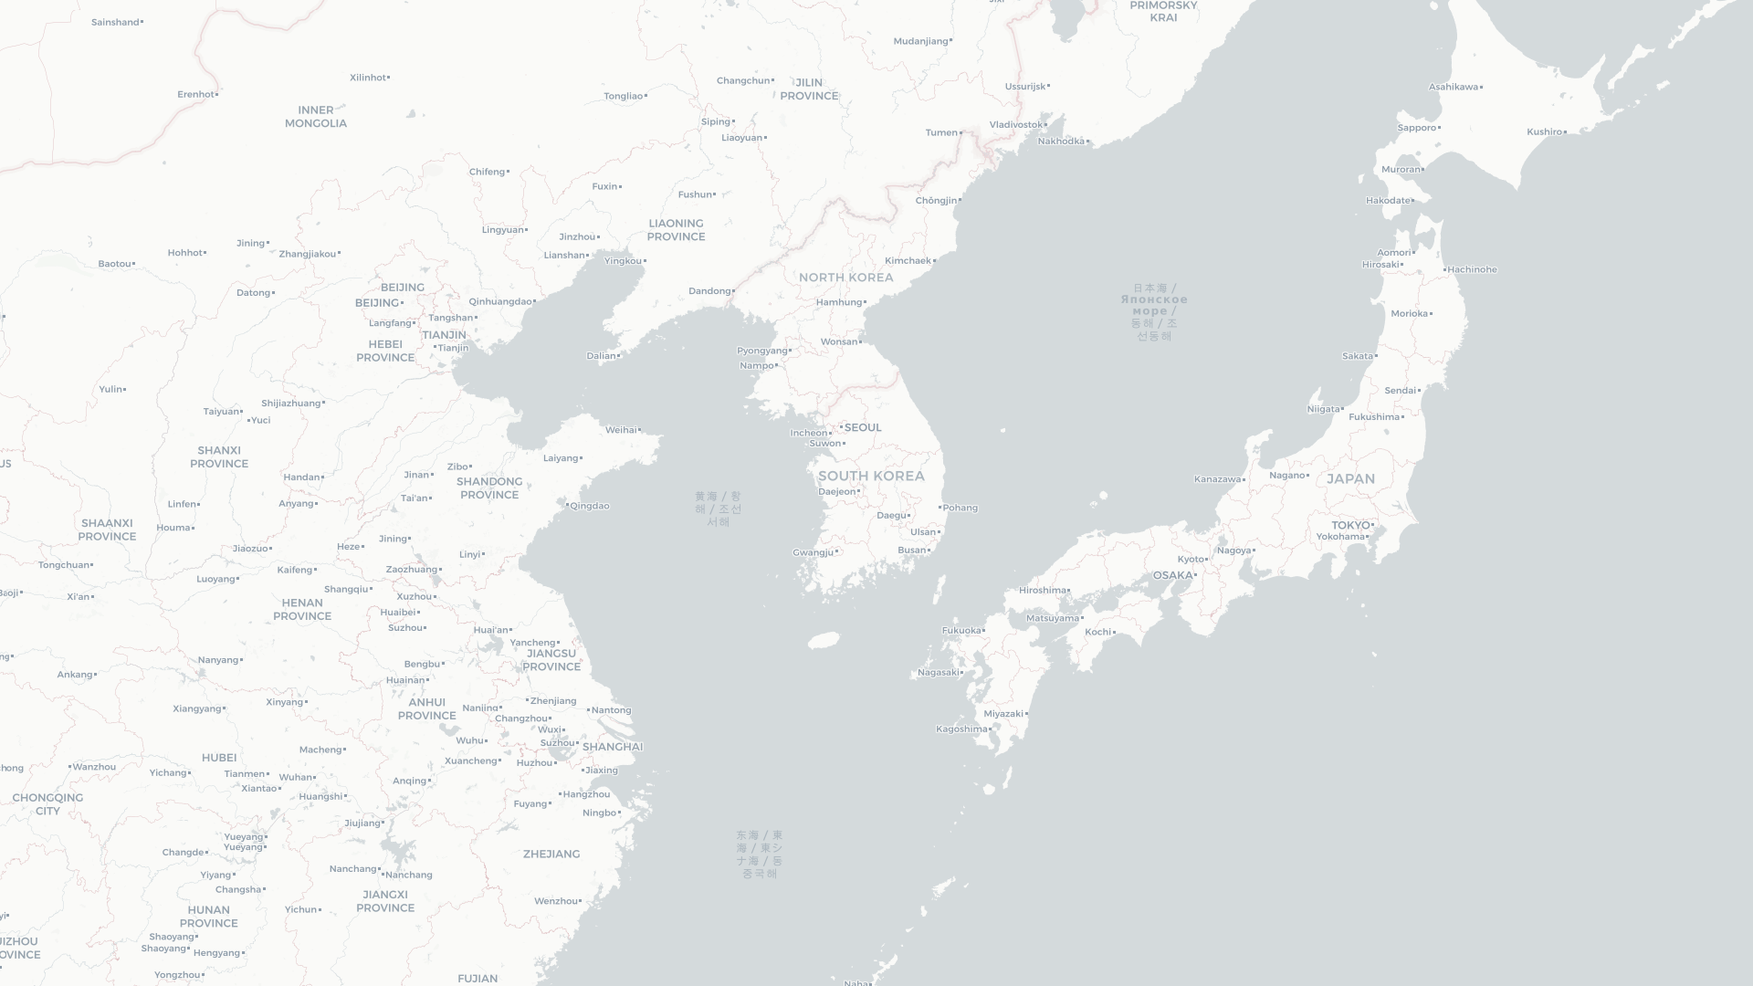
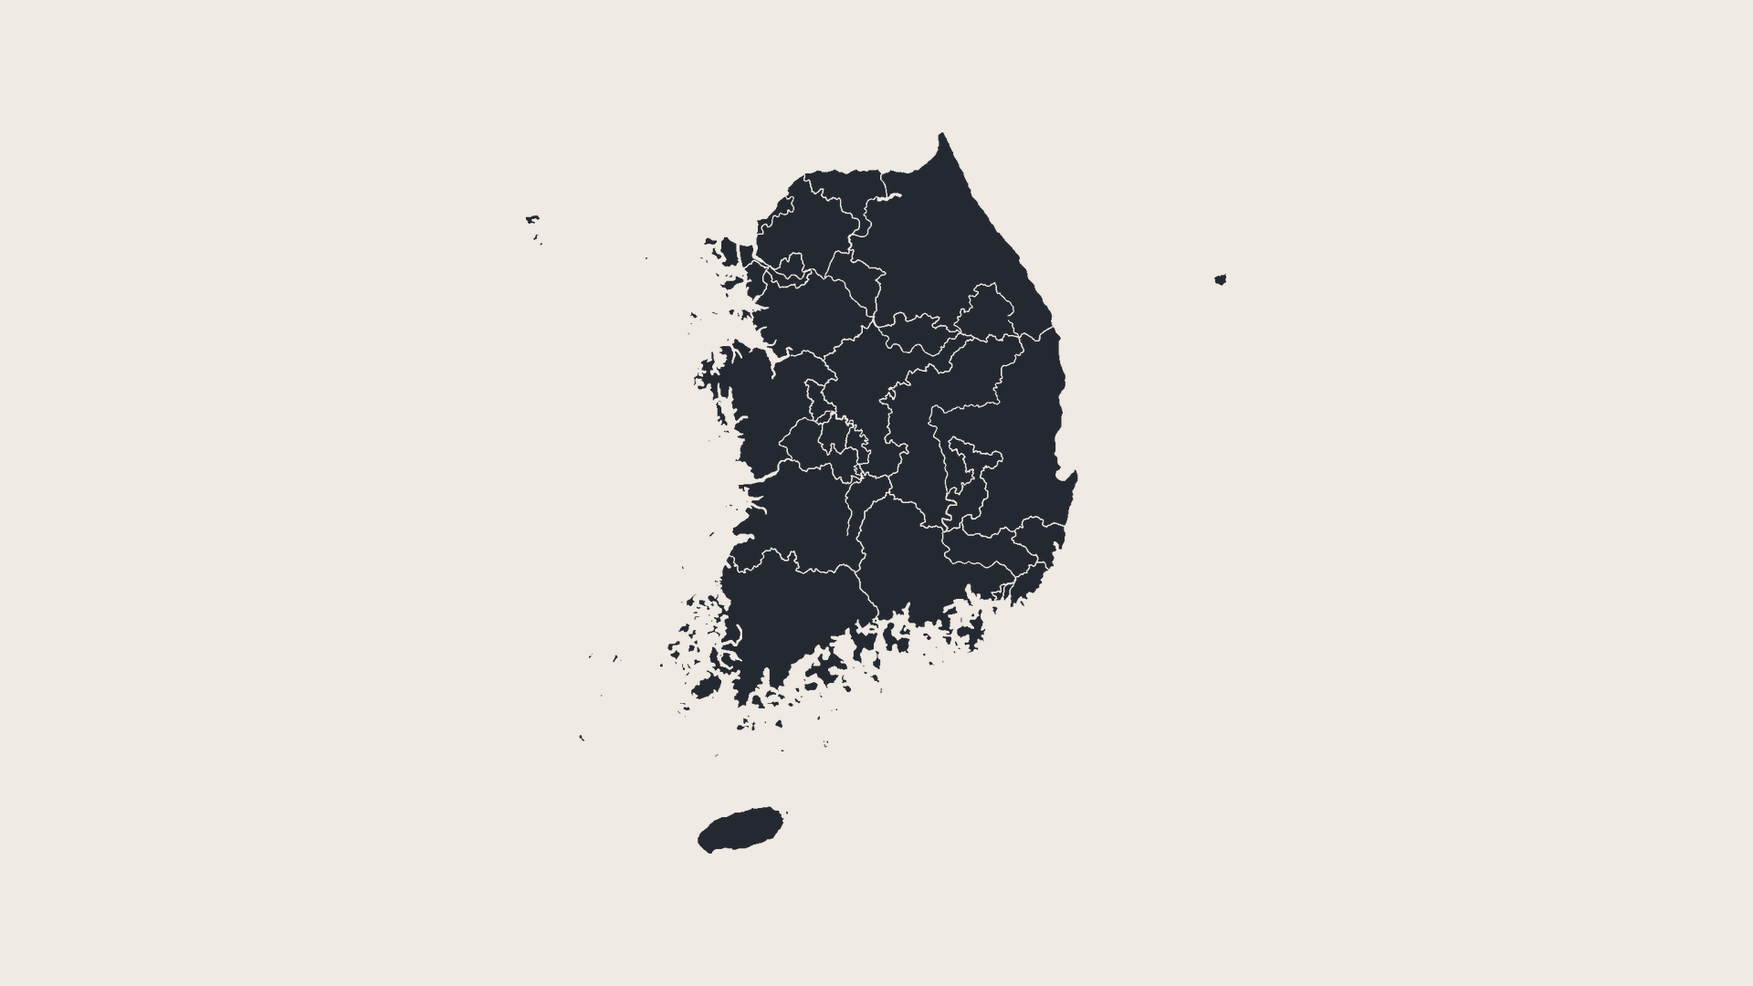
겹치는 글자·반복되는 화면 구조 잡기
전수 검수에서 나온 것들.

글자 겹침
- ShapeCompareCard 세로 치수 라벨이 도형 위로 올라탔다 (#33 옐로 면에 흰 글씨).
  DimLine 이 세로 라벨을 무조건 오른쪽에 놨기 때문이다. 치수선은 늘 도형
  바깥에 긋고 도형은 대개 가운데 있으니, 중앙에서 멀어지는 쪽에 놓게 바꿨다.
- StrikeSwapCard 옛 값과 새 값 사이가 14px 뿐이라 두 줄이 물렸다 (#85).
  간격을 한 줄 높이로 벌리고, 아래 한 줄은 블록 바닥을 따라가게 했다.
- 취소선이 글자 끝을 120px 지나 뻗었다. estWidth 추정이 한글에서 25% 크다.
  선을 글자 안에 넣어 실제 폭을 따르게 했다 — 추정을 안 쓴다.
- FrontageCard 안 이름과 면적 두 줄이 4px 로 붙어 있었다.

같은 그림 반복
- #22·#23 이 제목까지 같은 도형 카드였다. 평면(땅) → 입면(광고판) 으로
  한 칸 진행시켜 다른 그림이 되게 했다.
- YardView ×3, ShareSplit ×3, TrackRecord ×3 이었고 두 쌍은 바로 붙어 있었다.
  계열마다 하나씩만 남기고 나머지는 실사나 다른 카드로 돌렸다.
- 붙어 있는 같은 카드 3쌍(#2-3, #33-34, #80-81) 도 갈랐다. 이제 0쌍.
- #3 과 #4 가 같은 두 수(396/541)를 두 번 비교했고, #8 과 #73 이 같은 137%를
  두 번 띄웠다. 각각 한 번만 남겼다.

파일이 달라도 화면이 같은 문제
- 야경 항공샷이 셋 연달아 나오고 있었다. 파일 중복과 별개로 **계열**을 태그해
  앞 두 컷과 겹치지 않게 고른다.

한국 지도
- 국기를 뺀 지도가 실은 동아시아 지도였다. 중국·일본이 화면을 채우고 한국은
  가운데 조각이었다. 남한만 남긴 실루엣으로 다시 만들었다.

Claude-Session: https://claude.ai/code/session_0163BvG2wWGZZ4ytYegGjwJG

diff --git a/youtube_pipeline/motion/src/StrikeSwapCard.jsx b/youtube_pipeline/motion/src/StrikeSwapCard.jsx
@@ -2,7 +2,7 @@ import React from 'react';
 import {AbsoluteFill, Img, interpolate, staticFile, useCurrentFrame} from 'remotion';
 import {useA2ZFonts} from './Fonts';
 import {PaperBg, PaperTitle, PaperSource, themeOf, YELLOW, CONTENT_BOTTOM, fadeIn} from './paper';
-import {fit, estWidth} from './layout';
+import {fit} from './layout';
 
 // ── 값이 갈아치워지는 카드 ────────────────────────────────────────────────
 // B1M 썸네일에서 가장 강한 한 장이 "~~30 HOURS~~ / 6 HOURS" 였다.
@@ -42,10 +42,10 @@ export const StrikeSwapCard = ({
 
   const fromSize = fit(from, 96, 1300);
   const toSize = fit(to, 168, 1500);
-  const fromW = estWidth(from, fromSize);
   const top = title ? (sub ? 330 : 280) : 250;
-  const X = center ? 960 : 150;
-  const anchor = (w) => (center ? X - w / 2 : X);
+  // 아래 한 줄(note)은 블록 바닥을 따라간다 — 자막 안전영역 안에서만
+  const blockBot = top + fromSize * 1.62 + toSize * 1.05 + (toLabel ? 16 + 48 : 0);
+  const noteTop = Math.min(CONTENT_BOTTOM - 44, blockBot + 40);
 
   return (
     <AbsoluteFill style={{fontFamily: 'A2Z Regular, sans-serif'}}>
@@ -58,34 +58,40 @@ export const StrikeSwapCard = ({
       ) : null}
       <PaperTitle title={title} sub={sub} theme={theme} align={align} />
 
-      {/* ① 옛 값 */}
-      <div style={{position: 'absolute', left: anchor(fromW), top,
+      {/* ① 옛 값 + ② 취소선.
+          선을 SVG 로 따로 그었더니 estWidth 추정이 한글에서 25% 넘게 커서
+          글자 끝을 120px 지나 뻗었다. 선을 **글자 안에** inline-block 자식으로
+          넣으면 실제 글자 폭을 그대로 따라간다 — 추정이 필요 없다. */}
+      <div style={{position: 'absolute', left: 0, right: 0, top,
+                   textAlign: center ? 'center' : 'left',
+                   paddingLeft: center ? 0 : 150,
                    opacity: fadeIn(frame, 2)}}>
-        <div style={{fontFamily: 'Pretendard Bold, A2Z Medium, sans-serif',
+        <div style={{position: 'relative', display: 'inline-block',
+                     fontFamily: 'Pretendard Bold, A2Z Medium, sans-serif',
                      fontSize: fromSize, color: T.ink, opacity: 0.66, lineHeight: 1.1,
                      whiteSpace: 'nowrap', letterSpacing: '-0.02em'}}>
           {from}
+          <div style={{position: 'absolute', left: -10, top: '52%',
+                       width: `calc((100% + 20px) * ${s2})`, height: 7,
+                       background: T.ink, opacity: 1}} />
         </div>
       </div>
       {fromLabel ? (
-        <div style={{position: 'absolute', left: anchor(estWidth(fromLabel, 30)),
-                     top: top - 42, opacity: fadeIn(frame, 6),
+        <div style={{position: 'absolute', left: 0, right: 0, top: top - 42,
+                     textAlign: center ? 'center' : 'left',
+                     paddingLeft: center ? 0 : 150, opacity: fadeIn(frame, 6),
                      fontFamily: 'A2Z Light, sans-serif', fontSize: 30, color: T.soft,
                      whiteSpace: 'nowrap'}}>
           {fromLabel}
         </div>
       ) : null}
 
-      {/* ② 취소선 — 왼쪽에서 오른쪽으로. 지우는 동작이라 반드시 한 방향 */}
-      <svg width={1920} height={1080} style={{position: 'absolute', top: 0, left: 0}}>
-        <line x1={anchor(fromW) - 14} y1={top + fromSize * 0.56}
-              x2={anchor(fromW) - 14 + (fromW + 28) * s2} y2={top + fromSize * 0.56}
-              stroke={T.ink} strokeWidth={7} strokeLinecap="butt" />
-      </svg>
-
-      {/* ③ 새 값이 아래에서 올라온다 */}
+      {/* ③ 새 값이 아래에서 올라온다.
+          간격이 fromSize×1.24 였는데 옛 값 줄높이가 1.1 이라 **14px 밖에 안 남았다.**
+          한글은 받침까지 꽉 차고 새 값은 옐로 배경까지 있어서, 두 줄이 서로
+          물려 보였다 (#85 이지스↔교보AIM). 한 줄 높이만큼 확실히 띄운다. */}
       <div style={{position: 'absolute', left: 0, right: 0,
-                   top: top + fromSize * 1.24,
+                   top: top + fromSize * 1.62,
                    textAlign: center ? 'center' : 'left',
                    paddingLeft: center ? 0 : 150,
                    opacity: r2, transform: `translateY(${(1 - r2) * 26}px)`}}>
@@ -96,9 +102,9 @@ export const StrikeSwapCard = ({
                         boxDecorationBreak: 'clone'}}>{to}</span>
         </div>
         {toLabel ? (
-          <div style={{marginTop: 18,
+          <div style={{marginTop: 16,
                        fontFamily: 'Pretendard Bold, A2Z Medium, sans-serif',
-                       fontSize: 52, color: T.ink, whiteSpace: 'nowrap',
+                       fontSize: 48, color: T.ink, whiteSpace: 'nowrap',
                        letterSpacing: '-0.01em'}}>
             {toLabel}
           </div>
@@ -107,7 +113,7 @@ export const StrikeSwapCard = ({
 
       {note ? (
         <div style={{position: 'absolute', left: 150, right: 150,
-                     top: CONTENT_BOTTOM - 66, textAlign: center ? 'center' : 'left',
+                     top: noteTop, textAlign: center ? 'center' : 'left',
                      opacity: fadeIn(frame, READ + STRIKE + 30),
                      fontFamily: 'A2Z Light, sans-serif', fontSize: 32, color: T.soft,
                      wordBreak: 'keep-all'}}>

diff --git a/youtube_pipeline/motion/src/FrontageCard.jsx b/youtube_pipeline/motion/src/FrontageCard.jsx
@@ -1,7 +1,7 @@
 import React from 'react';
 import {AbsoluteFill, interpolate, useCurrentFrame} from 'remotion';
 import {useA2ZFonts} from './Fonts';
-import {themeOf, PaperBg, PaperTitle, PaperSource, YELLOW, CONTENT_BOTTOM, fadeIn} from './paper';
+import {themeOf, PaperBg, PaperTitle, PaperSource, YELLOW, CONTENT_BOTTOM, fadeIn, SP} from './paper';
 import {DimLine} from './annotate';
 import {fit} from './layout';
 
@@ -35,9 +35,9 @@ export const FrontageCard = ({
   // 블록을 **위에서부터 흘려** 쌓는다 (layout.jsx flow 와 같은 원칙).
   // 좌표를 하나씩 박으면 한 곳을 고칠 때 옆이 깨진다 — 실제로 첫 렌더에서
   // 안 이름이 부제를 덮고 치수 숫자가 정면 박스를 관통했다.
-  const LABEL_H = 88;      // 안 이름 + 면적 두 줄
+  const LABEL_H = 112;     // 안 이름 + 면적 두 줄. 88 이면 두 줄이 서로 붙는다
   const GAP = 34;          // 평면 ↔ 정면. 옐로 변이 내려오는 통로
-  const DIM_GAP = 74;      // 정면 ↔ 치수선. DimLine 라벨이 선 **위**에 앉으므로
+  const DIM_GAP = 84;      // 정면 ↔ 치수선. DimLine 라벨이 선 **위**에 앉으므로
                            // 이만큼 안 띄우면 숫자가 정면 박스를 뚫는다
   const NOTE_GAP = 40;
 
@@ -155,9 +155,10 @@ export const FrontageCard = ({
                          fontSize: fit(o.label, 46, 560), color: o.hot ? T.ink : T.soft}}>
               {o.label}
             </div>
-            <div style={{marginTop: 4, fontFamily: 'A2Z Light, sans-serif', fontSize: 27,
+            {/* 이름 바로 밑에 4px 로 붙여 놨더니 두 줄이 한 덩어리로 뭉쳤다 */}
+            <div style={{marginTop: SP.TIGHT, fontFamily: 'A2Z Light, sans-serif', fontSize: 30,
                          color: T.soft}}>
-              면적 {o.w * o.d}칸 · 동일
+              면적 {o.w * o.d}칸 (동일)
             </div>
           </div>
         );
@@ -172,8 +173,8 @@ export const FrontageCard = ({
           <div key={oi} style={{position: 'absolute', left: cx - 300, width: 600,
                                 top: noteTop, textAlign: 'center', opacity: op,
                                 fontFamily: 'Pretendard Bold, A2Z Medium, sans-serif',
-                                fontSize: fit(o.note, 34, 560),
-                                color: o.hot ? T.ink : T.soft}}>
+                                fontSize: fit(o.note, 38, 560),
+                                color: T.ink, opacity: o.hot ? 1 : 0.72}}>
             {o.note}
           </div>
         );

diff --git a/youtube_pipeline/motion/src/annotate.jsx b/youtube_pipeline/motion/src/annotate.jsx
@@ -185,9 +185,15 @@ export const DimLine = ({x1, y1, x2, y2, progress = 1, color = '#FFFFFF',
         // 치수선이 글자 한가운데를 관통한다 (실제로 겪음).
         const vertical = Math.abs(dy) > Math.abs(dx);
         const mx = (x1 + x2) / 2, my = (y1 + y2) / 2;
-        // 화면 오른쪽 끝에 붙은 치수선이면 라벨을 안쪽(왼쪽)으로 뒤집는다.
-        // 안 그러면 글자가 프레임 밖으로 나간다.
-        const flip = vertical && mx + cap + 16 + String(label).length * labelSize * 0.62 > 1880;
+        // 세로 치수선의 라벨은 **바깥쪽**(화면 중앙 반대편)으로 뺀다.
+        // 예전엔 무조건 오른쪽에 놨는데, 도형 왼쪽에 그은 치수선이면 라벨이
+        // 도형 위로 올라탔다 — 옐로 면에 흰 글씨가 얹혀 안 읽혔다 (#33).
+        // 치수선은 늘 도형 바깥에 긋고 도형은 대개 가운데 있으니, 중앙에서
+        // 멀어지는 쪽이 곧 도형 반대편이다.
+        const wide = String(label).length * labelSize * 0.62;
+        let flip = vertical && mx < 960;              // 왼쪽 치수선 → 라벨도 왼쪽
+        if (vertical && flip && mx - cap - 26 - wide < 24) flip = false;   // 프레임 밖 방지
+        if (vertical && !flip && mx + cap + 26 + wide > 1896) flip = true;
         const lx = vertical ? (flip ? mx - cap - 26 : mx + cap + 26) : mx;
         const ly = vertical ? my + labelSize * 0.34 : my - cap - 14;
         return (

diff --git a/youtube_pipeline/projects/올리브영성수/revise_v2.py b/youtube_pipeline/projects/올리브영성수/revise_v2.py
@@ -36,7 +36,7 @@ CRED = {
     'seongsu_storefronts.jpg': 'CC BY-SA 4.0',
     'seongsu_alley2.jpg': 'CC BY-SA 4.0',
     'oliveyoung_store.png': 'Pkccccj / CC BY-SA 4.0',
-    'korea.png': '© OpenStreetMap contributors © CARTO',
+    'korea.png': 'Wikimedia Commons / CC BY-SA 3.0',
     'px_seoul_night.jpg': 'Pexels', 'px_seoul_street1.jpg': 'Pexels',
     'px_seoul_street2.jpg': 'Pexels', 'px_seoul_billboard.jpg': 'Pexels',
     'px_seoul_alley.jpg': 'Pexels', 'px_seoul_life.jpg': 'Pexels',
@@ -120,8 +120,8 @@ R[10] = ('BigStatsCard', {
     'title': '매장 대부분 임차로 사용', 'sub': '',
     'items': [{'display': '1,381', 'unit': '개', 'label': '전국 매장', 'hot': True}],
     'theme': 'paper', 'align': 'center',
-    'bg': {'backdrop': img('korea.png'), 'veil': 0.74, 'dir': 0, 'blur': 0},
-    'source': '오픈애즈 2026.04.03'})
+    'bg': {'backdrop': img('korea.png'), 'veil': 0.79, 'dir': 0, 'blur': 0},
+    'source': '오픈애즈 2026.04.03 · 지도 Wikimedia Commons CC BY-SA 3.0'})
 # #11 성수동 지도 위 올리브영 표기
 R[11] = ('MapCard', {
     'image': MAPOY, 'bounds': BOUNDSOY,
@@ -479,7 +479,7 @@ R[23] = ('AspectRatioCard', {
     'items': [{'w': 8, 'h': 2, 'label': '길게 보인다', 'hot': True},
               {'w': 4, 'h': 4, 'label': '짧게 보인다'}],
     'frontLabel': '전면 폭',
-    'theme': 'paper', 'caption': '두 도형 면적 동일 (16㎡) — 도해',
+    'theme': 'paper', 'caption': '',
     'source': '도해'})
 
 # #94 낙찰가 + 취득세 + 기타 = 570억. 숫자 나열이 아니라 쌓아 올린다
@@ -500,6 +500,120 @@ R[120] = ('ForkPathCard', {
                  {'label': '만든다', 'note': '올리브영만의 공간 콘텐츠'}],
     'question': '어느 쪽?',
     'theme': 'blueprint', 'source': '도해'})
+
+
+# ══════════ 같은 논지가 두 번 그려지던 구간 정리 ══════════
+# #18 네모반듯 / #19 직사각형vs정사각형 / #22 같은면적 / #23 같은면적 —
+# 여덟 컷 안에 도형 비교 카드가 넷이고, #22 와 #23 은 **제목까지 같았다**
+# ("같은 면적, 다른 얼굴"). 같은 그림을 두 번 그린 셈이라 하나로 합치고
+# 대신 논지를 한 단계 진행시킨다: 평면(땅) → 입면(광고판).
+
+# #19 는 실사로 내린다 — 도형은 #22·#23 두 장이면 충분하다
+R[19] = lt('seongsu_bldg1.jpg', label='한쪽 면이 길다',
+           sub='정사각형보다 한 변이 길다', scrim=0.52)
+
+# #22 평면 — 땅 넓이는 같은데 길에 닿는 변이 두 배
+R[22] = ('AspectRatioCard', {
+    'title': '같은 면적, 다른 전면', 'sub': '둘 다 16㎡ — 땅 넓이는 같다',
+    'unit': 'm',
+    'items': [{'w': 8, 'h': 2, 'label': '길게 보인다', 'hot': True},
+              {'w': 4, 'h': 4, 'label': '짧게 보인다'}],
+    'frontLabel': '길에 닿는 변',
+    'theme': 'paper', 'caption': '',
+    'source': '도해'})
+
+# #23 입면 — 그 변이 그대로 광고판 폭이 된다 (평면에서 입면으로 한 칸 진행)
+R[23] = ('FrontageCard', {
+    'title': '그만큼 광고판이 넓어진다', 'sub': '',
+    # 치수선이 이미 4·8 을 재고 있다. 아래 줄까지 '광고판 4/8' 이면 같은 수를
+    # 두 번 적는 셈이라, 아래 줄은 **비교 결과**만 말하게 둔다
+    'options': [{'label': '4 × 4', 'w': 4, 'd': 4, 'note': ''},
+                {'label': '8 × 2', 'w': 8, 'd': 2, 'note': '광고판 폭 2배', 'hot': True}],
+    'floors': 2, 'unit': 'm', 'note': '', 'theme': 'ink', 'source': '도해'})
+
+# #29 다섯 번째 도형 카드가 될 자리였다. 파사드 얘기는 #22·#23 에서
+# 평면·입면으로 이미 다 그렸고, 여기서 또 네모를 그리면 같은 그림 반복이다.
+# 좁은 파사드 실사로 내리고 그래픽 밀도를 이 구간에서 낮춘다.
+R[29] = lt('seongsu_storefronts.jpg', label='보여줄 수 있는 얼굴이 작다',
+           sub='파사드가 작다는 건', scrim=0.54)
+
+# ══════════ 같은 카드가 세 번씩 나오던 구간 ══════════
+# YardView ×3 (#49·50·52), ShareSplit ×3 (#61·62·71), TrackRecord ×3 (#55·66·67).
+# 게다가 #61→#62, #66→#67 은 **바로 붙어** 있었다. 소재는 안 겹쳐도 화면 구조가
+# 겹치면 같은 그림이 두 번 지나간 것으로 읽힌다. 각 계열에서 하나씩만 남긴다.
+
+# #50 마당 얘기는 #49 도해로 끝났다. 여기선 실제 외부 공간을 보여 준다
+R[50] = lt('seoulforest_deck.jpg', label='내부뿐 아니라 외부까지',
+           sub='건물 밖까지 덤으로 받는다', scrim=0.5)
+# #52 인증샷 — 도해보다 사람이 찍는 장면이 낫다
+R[52] = lt('bl_phonesnap.mp4', label='건물 얼굴이 온전히 다 담긴다',
+           sub='인증샷도 마찬가지', scrim=0.5)
+# #62 나눌 수 없다는 건 #61 도해가 이미 말했다. 여기선 그래서 간 곳 — 법원
+R[62] = lt('px_gavel.mp4', label='나눌 수 없으니 법원으로 간다',
+           sub='', tone='dark', scrim=0.55)
+
+# #67 "보통 매각 vs 경매" 는 목록이 아니라 **갈림길**이다. 게다가 결말이 정해져
+# 있으니 (#120 과 달리) 한쪽을 확정해 보여 준다 — 같은 카드도 상태가 다르면
+# 다른 그림이 된다
+R[67] = ('ForkPathCard', {
+    'title': '건물을 파는 두 가지 방법', 'sub': '',
+    'trunkLabel': '신도리코 부지',
+    'branches': [{'label': '보통 매각', 'note': '주관사가 매수자를 섭외한다'},
+                 {'label': '경매', 'note': '공고 후 공개 입찰 — 시장이 값을 정한다'}],
+    'decided': 1,
+    'theme': 'ink', 'source': '도해'})
+
+# #73 137% 는 #8 에서 이미 크게 썼다. 같은 수를 같은 카드로 두 번 띄우지 않는다
+R[73] = lt('px_receipts.mp4', label='반드시 받으려고 웃돈을 썼다',
+           sub='싸게 사려던 게 아니다', scrim=0.55)
+
+
+# ══════════ 같은 카드가 바로 붙어 있던 세 쌍 ══════════
+# #3 감정가 396 vs 낙찰가 541 을 큰 수로 띄우고, 바로 다음 #4 가 **같은 두 수를**
+# 막대로 다시 그렸다. 같은 비교를 두 번 한 셈이라 #3 은 말만 받아 주고
+# 비교는 #4 막대에 맡긴다
+R[3] = lt('cash_closeup.mp4', label='감정가는 396억이었다',
+          sub='', tone='dark', scrim=0.55)
+
+# #33·#34 도형 카드가 붙어 있었다. 뚫린 층은 실사가 훨씬 잘 보여 준다
+R[33] = lt('bl_high_ceiling.mp4', label='1층과 2층이 뚫려 있다',
+           sub='몇몇 공간이 위아래로 열려 있다', scrim=0.52)
+
+# #80·#81 수치 카드가 붙어 있었다. 방문객 수는 매장 실사 위에 얹는다
+R[81] = lt('px_mall_high.mp4', label='개점 1년 누적 250만 명',
+           sub='전국 매장 중 내국인 방문 1위', scrim=0.55)
+
+
+# ── 시각 계열 ──────────────────────────────────────────────────────────
+# 파일이 다르다고 화면이 달라지는 게 아니다. 야경 항공샷 셋이 연달아 나오면
+# 소재는 서로 다른데 보는 사람에겐 **같은 그림이 세 번**이다 (#30·#31·#32 가
+# 그랬다). 그래서 파일 중복과 별개로 **계열이 붙는 것**도 막는다.
+FAMILY = [
+    ('night',   ('city_night', 'city_lights', 'seoul_night', 'buildings_night',
+                 'seoul_aerial', 'aerial_sunset', 'towers', 'city_river',
+                 'seoul_stream', 'rooftop', 'topdown_roof', 'seoul_downtown')),
+    ('street',  ('street_', 'seongsu_alley', 'seoul_alley', 'seoul_street',
+                 'seoul_busy', 'seoul_life', 'px_street', 'seoul_gate')),
+    ('retail',  ('retail_', 'mall', 'store_queue', 'brand_storefront', 'escalator',
+                 'window_shop', 'makeup', 'beauty', 'storefronts')),
+    ('gallery', ('gallery', 'installation', 'white_gallery', 'exhibit',
+                 'arch_hall', 'high_ceiling', 'columns', 'concourse', 'corridor',
+                 'lobby', 'station_hall', 'library')),
+    ('office',  ('office_', 'desk_top', 'planning', 'discussion', 'thinking',
+                 'phonesnap', 'blueprint', 'architect', 'lawsuit')),
+    ('money',   ('money_', 'cash_', 'coins', 'vault', 'credit', 'receipts',
+                 'contract', 'handshake', 'sign_', 'gavel', 'auction_')),
+    ('site',    ('crane', 'construction', 'aerial_land', 'topdown_block',
+                 'industrial', 'billboard')),
+]
+
+
+def family(name):
+    n = os.path.basename(name).lower()
+    for fam, keys in FAMILY:
+        if any(k in n for k in keys):
+            return fam
+    return 'etc'
 
 
 # ── 소재 중복 감시 ──────────────────────────────────────────────────────
@@ -546,18 +660,33 @@ def dedupe_media(plan, props, pubdir):
 
     used = collections.Counter()
     lastAt = {}
+    famAt = {}
     swapped = 0
     for idx, holder, key, cur in slots:
         if any(os.path.basename(cur).startswith(d) for d in DATA):
             continue
         pool = pool_v if cur.endswith('.mp4') else pool_i
-        if used[cur] == 0:
+        near0 = {famAt.get(idx - 1), famAt.get(idx - 2)}
+        if used[cur] == 0 and family(cur) not in near0:
             used[cur] += 1
             lastAt[cur] = idx
+            famAt[idx] = family(cur)
             continue
+        if used[cur] == 0:
+            # 파일은 처음 쓰지만 계열이 앞 컷과 붙는다 — 바꿀 수 있으면 바꾼다
+            alt = [m for m in (pool_v if cur.endswith('.mp4') else pool_i)
+                   if used[m] == 0 and family(m) not in near0]
+            if not alt:
+                used[cur] += 1
+                lastAt[cur] = idx
+                famAt[idx] = family(cur)
+                continue
         fresh = [m for m in pool if used[m] == 0]
+        # 앞 두 컷과 **계열이 겹치지 않는 것**을 먼저 고른다
+        near = {famAt.get(idx - 1), famAt.get(idx - 2)}
+        best = [m for m in fresh if family(m) not in near]
         # 안 쓴 게 없으면 가장 적게 · 가장 오래전에 쓴 것. 바로 앞뒤 컷은 피한다
-        pick = fresh[0] if fresh else min(
+        pick = (best or fresh or [None])[0] or min(
             pool, key=lambda m: (used[m], -(idx - lastAt.get(m, -99))))
         d = holder()
         d[key] = os.path.basename(pick) if key == 'src' else pick
@@ -565,6 +694,7 @@ def dedupe_media(plan, props, pubdir):
             d['source'] = cred(os.path.basename(pick))
         used[pick] += 1
         lastAt[pick] = idx
+        famAt[idx] = family(pick)
         swapped += 1
 
     dup = [m for m, c in used.items() if c > 1]
